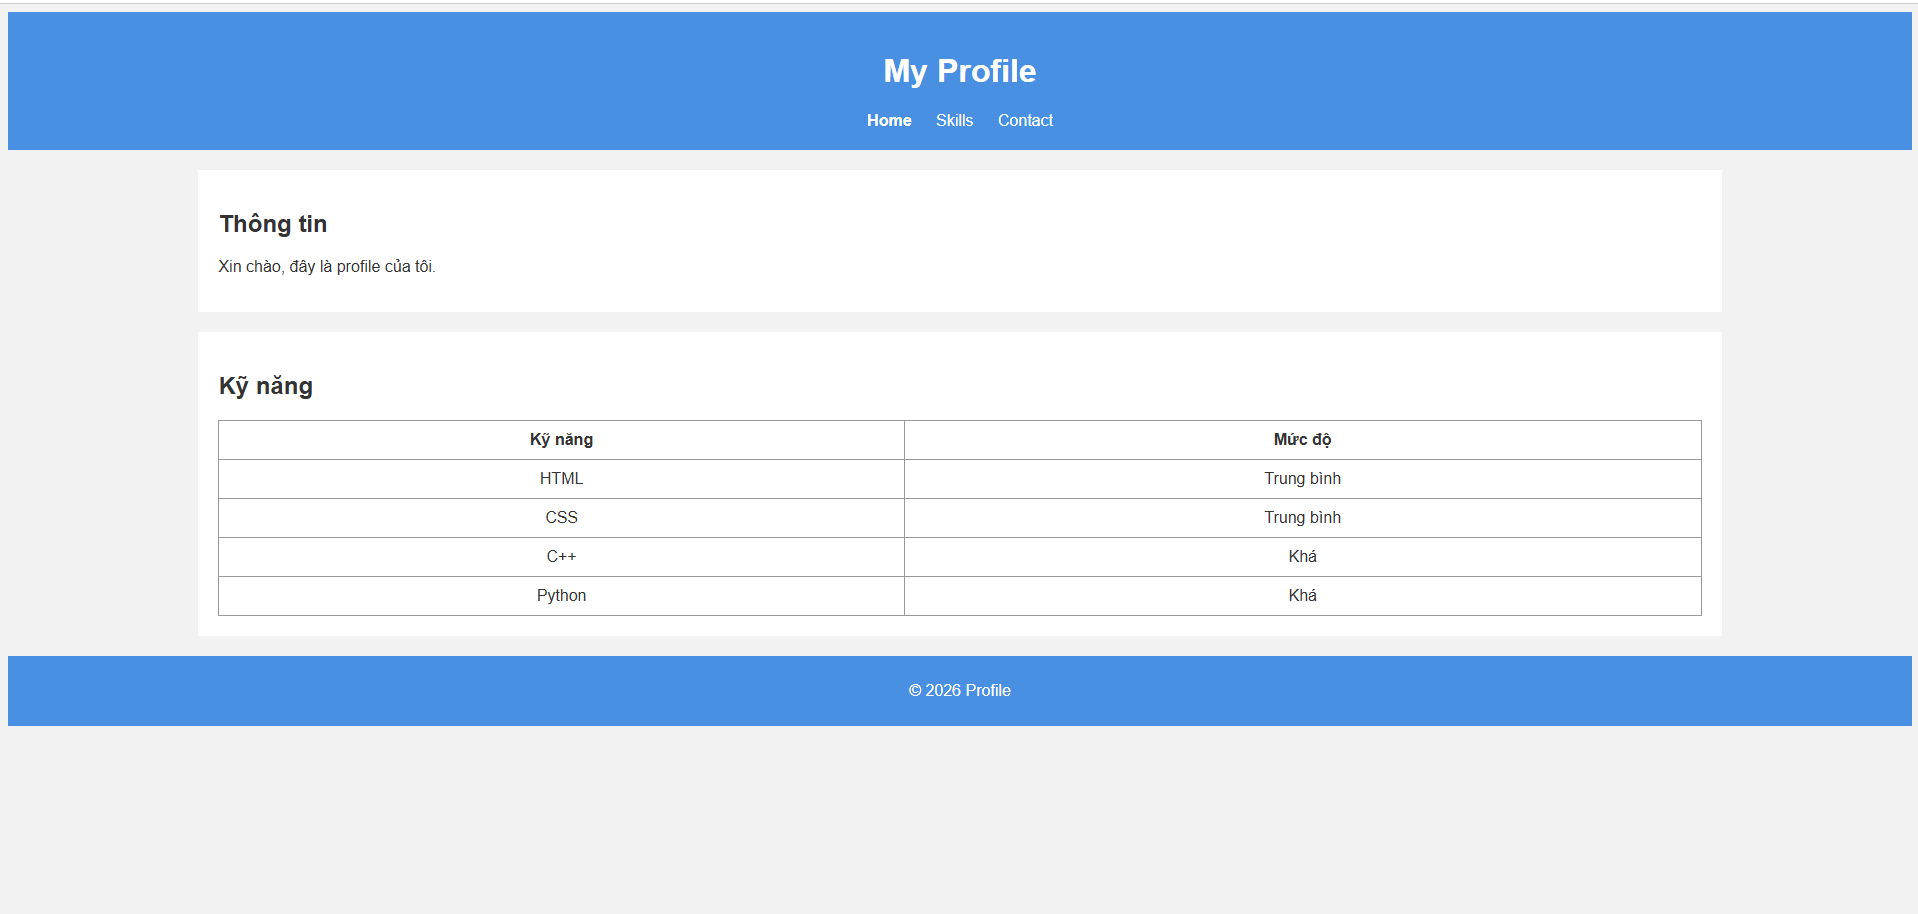
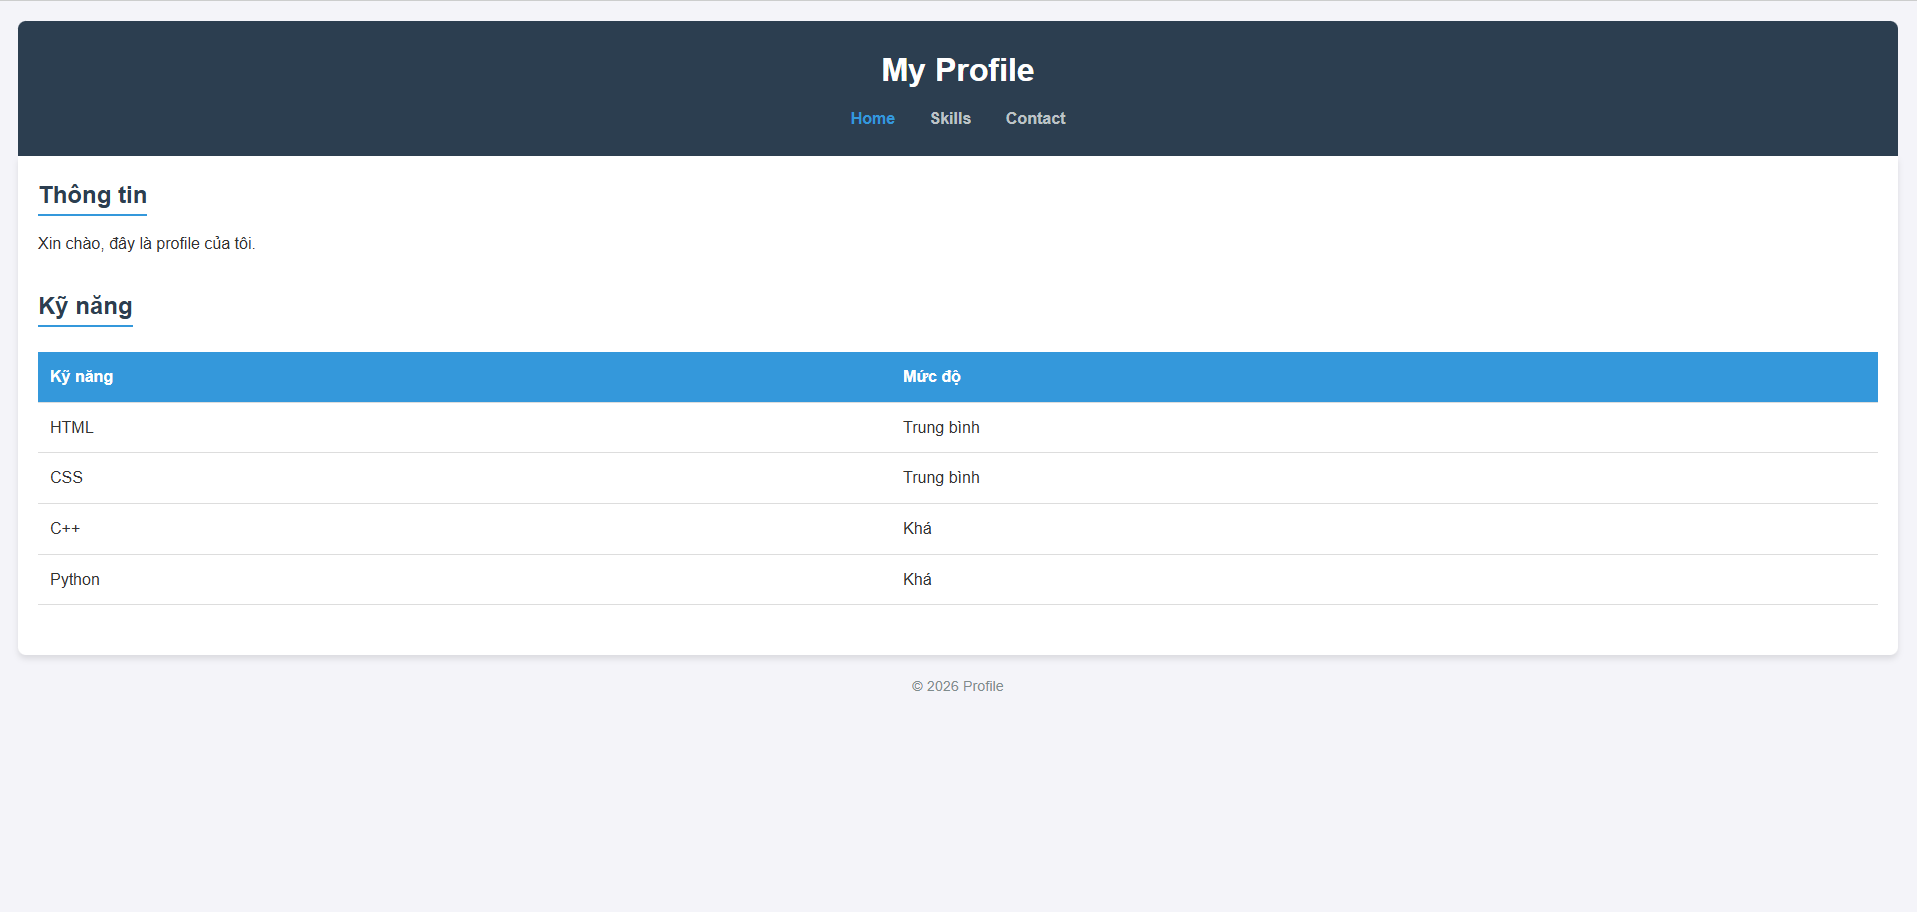
Add files via upload

diff --git a/PBT_03/css/style.css b/PBT_03/css/style.css
@@ -1,7 +1,88 @@
-body { font-size: 16px; color: #333; } /* (0,0,1) */
-.container { font-size: 14px; } /* (0,1,0) */
-.card { color: blue; } /* (0,1,0) */
-.card .title { font-size: 20px; } /* (0,2,0) */
-.card p { color: inherit; } /* (0,1,1) */
-#featured .title { color: red; } /* (1,1,0) */
-.highlight { color: green !important; } /* max */
+/* 1. Reset định dạng mặc định */
+* {
+    margin: 0;
+    padding: 0;
+    box-sizing: border-box; /* Giúp quản lý kích thước hộp dễ dàng hơn */
+}
+
+body {
+    font-family: Arial, sans-serif;
+    line-height: 1.6;
+    background-color: #f4f4f9;
+    color: #333;
+    padding: 20px;
+}
+
+/* 2. Header & Navigation */
+header {
+    background-color: #2c3e50;
+    color: white;
+    padding: 1.5rem;
+    text-align: center;
+    border-radius: 8px 8px 0 0;
+}
+
+header h1 {
+    margin-bottom: 10px;
+}
+
+nav a {
+    color: #bdc3c7;
+    text-decoration: none;
+    margin: 0 15px;
+    font-weight: bold;
+    transition: 0.3s;
+}
+
+nav a:hover, nav a.active {
+    color: #3498db; /* Màu xanh nước biển cho trạng thái active/hover */
+}
+
+/* 3. Main Content */
+main {
+    background: white;
+    padding: 20px;
+    border-radius: 0 0 8px 8px;
+    box-shadow: 0 4px 6px rgba(0,0,0,0.1);
+}
+
+section {
+    margin-bottom: 30px;
+}
+
+h2 {
+    color: #2c3e50;
+    border-bottom: 2px solid #3498db;
+    display: inline-block;
+    margin-bottom: 15px;
+}
+
+/* 4. Định dạng Bảng (Skills Table) */
+table {
+    width: 100%;
+    border-collapse: collapse;
+    margin-top: 10px;
+}
+
+th, td {
+    text-align: left;
+    padding: 12px;
+    border-bottom: 1px solid #ddd;
+}
+
+thead {
+    background-color: #3498db;
+    color: white;
+}
+
+tbody tr:hover {
+    background-color: #f1f1f1;
+}
+
+/* 5. Footer */
+footer {
+    text-align: center;
+    margin-top: 20px;
+    font-size: 0.9rem;
+    color: #7f8c8d;
+}